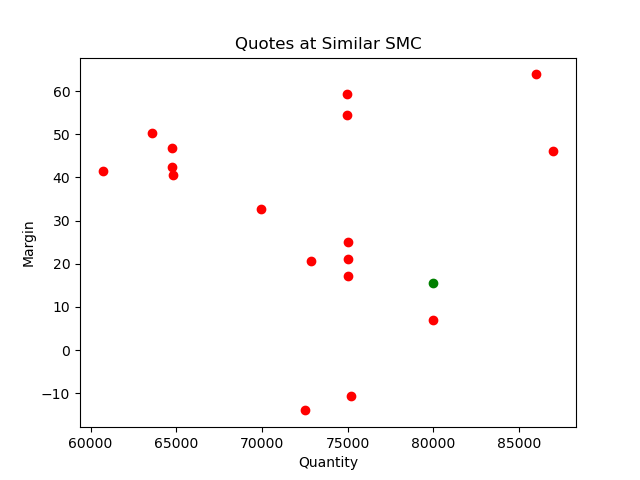
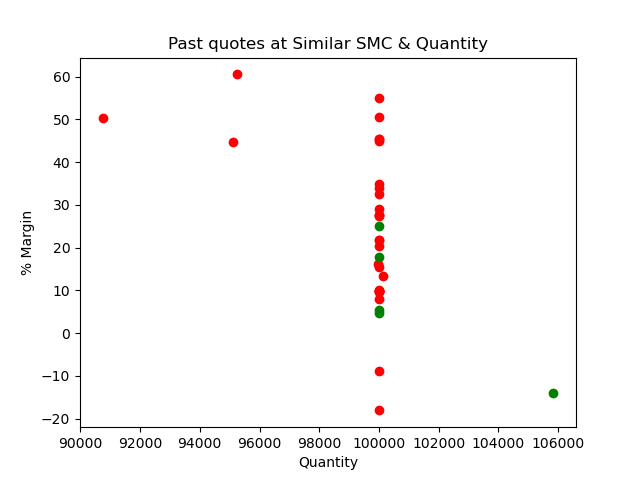
prototype 2

diff --git a/quotestool/templates/quotestool/input.html b/quotestool/templates/quotestool/input.html
@@ -1,17 +1,17 @@
 <ul>
 <h1>Transformer Quotes Tool</h1>
 
-<p>Input SMC in Cents (135 = $1.35)</p>
 <p>Input EAU without commas (10000 not 10,000)</p>
 
 <form action="/quotestool/results/" method="get">
 {% for parameter in parameterList %}
     <label for="{{ parameter.name }}">{{ parameter.name }}</label>
-    <input type="number" name="{{ parameter.name }}">
+    <input type="number" step="0.01" name="{{ parameter.name }}">
     </p>
 {% endfor %}
 <label for="pwd">Password:</label>
 <input type="password" id="pwd" name="pwd" minlength="8"></p>
+<p>Password Hint: Dominik's Favorite Program</p>
 <input type="submit" value="Submit">
 </form>
 </ul>

diff --git a/quotestool/templates/quotestool/results.html b/quotestool/templates/quotestool/results.html
@@ -1,16 +1,16 @@
 <ul>
 <h1>Results</h1>
 </p>
-Computer Predicted Successful Margins Are:
+Computer thinks THESE prices will win:
 </p>
 {% for each in prediction %}
     Margin = {{ each.0 }}%,  Price = ${{ each.1|floatformat:2 }}
     </br>
 {% endfor %}
-If you see nothing above, the model thinks no margin will be successful...
+If you see nothing above, the computer thinks you're screwed...
 </p>
 {% load static %}
 <img src="{% static "quotestool/otherstuff.png" %}" alt="My image">
 </p>
-<a href="/quotestool/">Go Back?</a>
+<a href="/quotestool/">Try another SMC & EAU</a>
 </ul>

diff --git a/quotestool/views.py b/quotestool/views.py
@@ -6,22 +6,26 @@ from django.shortcuts import render
 from .models import Parameter
 from .prediction import predict
 
-Parameter.objects.all().delete()
-smc = Parameter(name="SMC")
-eau = Parameter(name="EAU")
-smc.save()
-eau.save()
-
 def input(request):
+    Parameter.objects.all().delete()
+    smc = Parameter(name="SMC")
+    eau = Parameter(name="EAU")
+    smc.save()
+    eau.save()
     parameterList = Parameter.objects.all()
     context = {'parameterList': parameterList}
     return render(request, 'quotestool/input.html', context)
 
 def results(request):
+    Parameter.objects.all().delete()
+    smc = Parameter(name="SMC")
+    eau = Parameter(name="EAU")
+    smc.save()
+    eau.save()
     parameterList = Parameter.objects.all()
     smc = Parameter.objects.get(name="SMC")
     eau = Parameter.objects.get(name="EAU")
-    smc.quantity = int(request.GET['SMC'])
+    smc.quantity = 100*float(request.GET['SMC'])
     eau.quantity = int(request.GET['EAU'])
     password = request.GET['pwd']
     smc.save()

diff --git a/quotestool/prediction.py b/quotestool/prediction.py
@@ -44,8 +44,8 @@ def predict(smc,eau):
                 sdpM += [dpMargin]
     plt.clf()
     plt.plot(udpQ,udpM,'ro',sdpQ,sdpM,'go')
-    plt.title('Quotes at Similar SMC')
+    plt.title('Past quotes at Similar SMC & Quantity')
     plt.xlabel('Quantity')
-    plt.ylabel('Margin')
+    plt.ylabel('% Margin')
     plt.savefig('quotestool/static/quotestool/otherstuff.png')
     return salesPredictions
